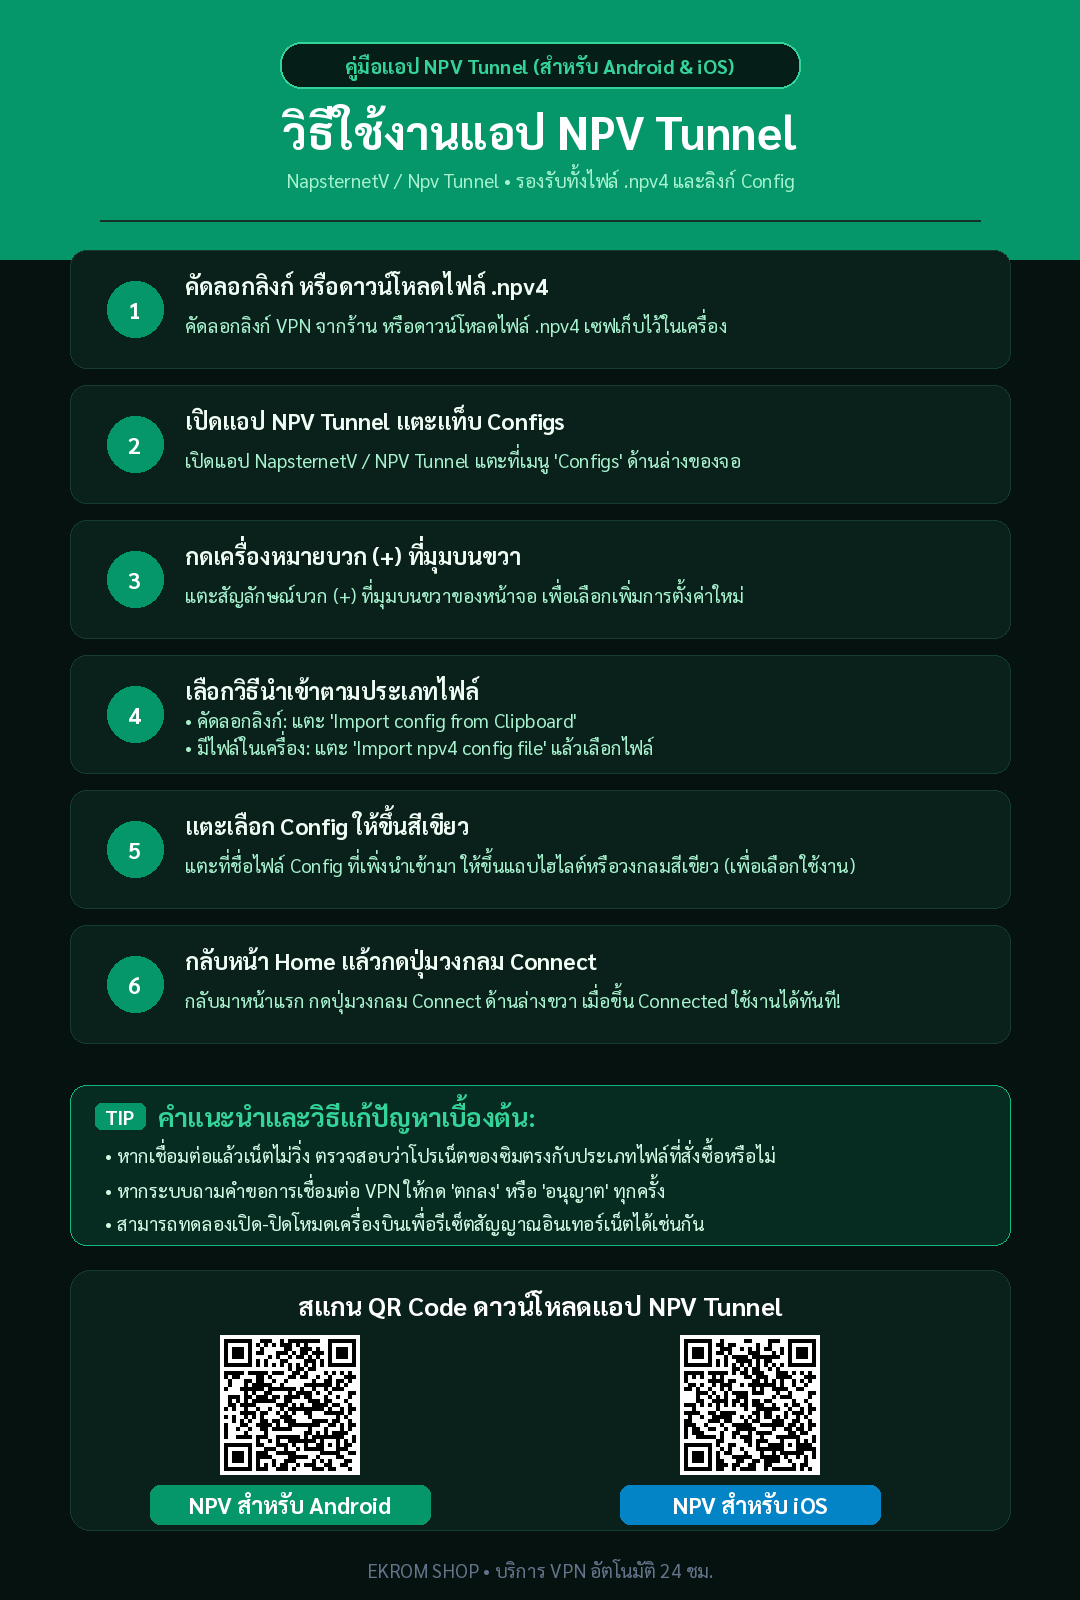
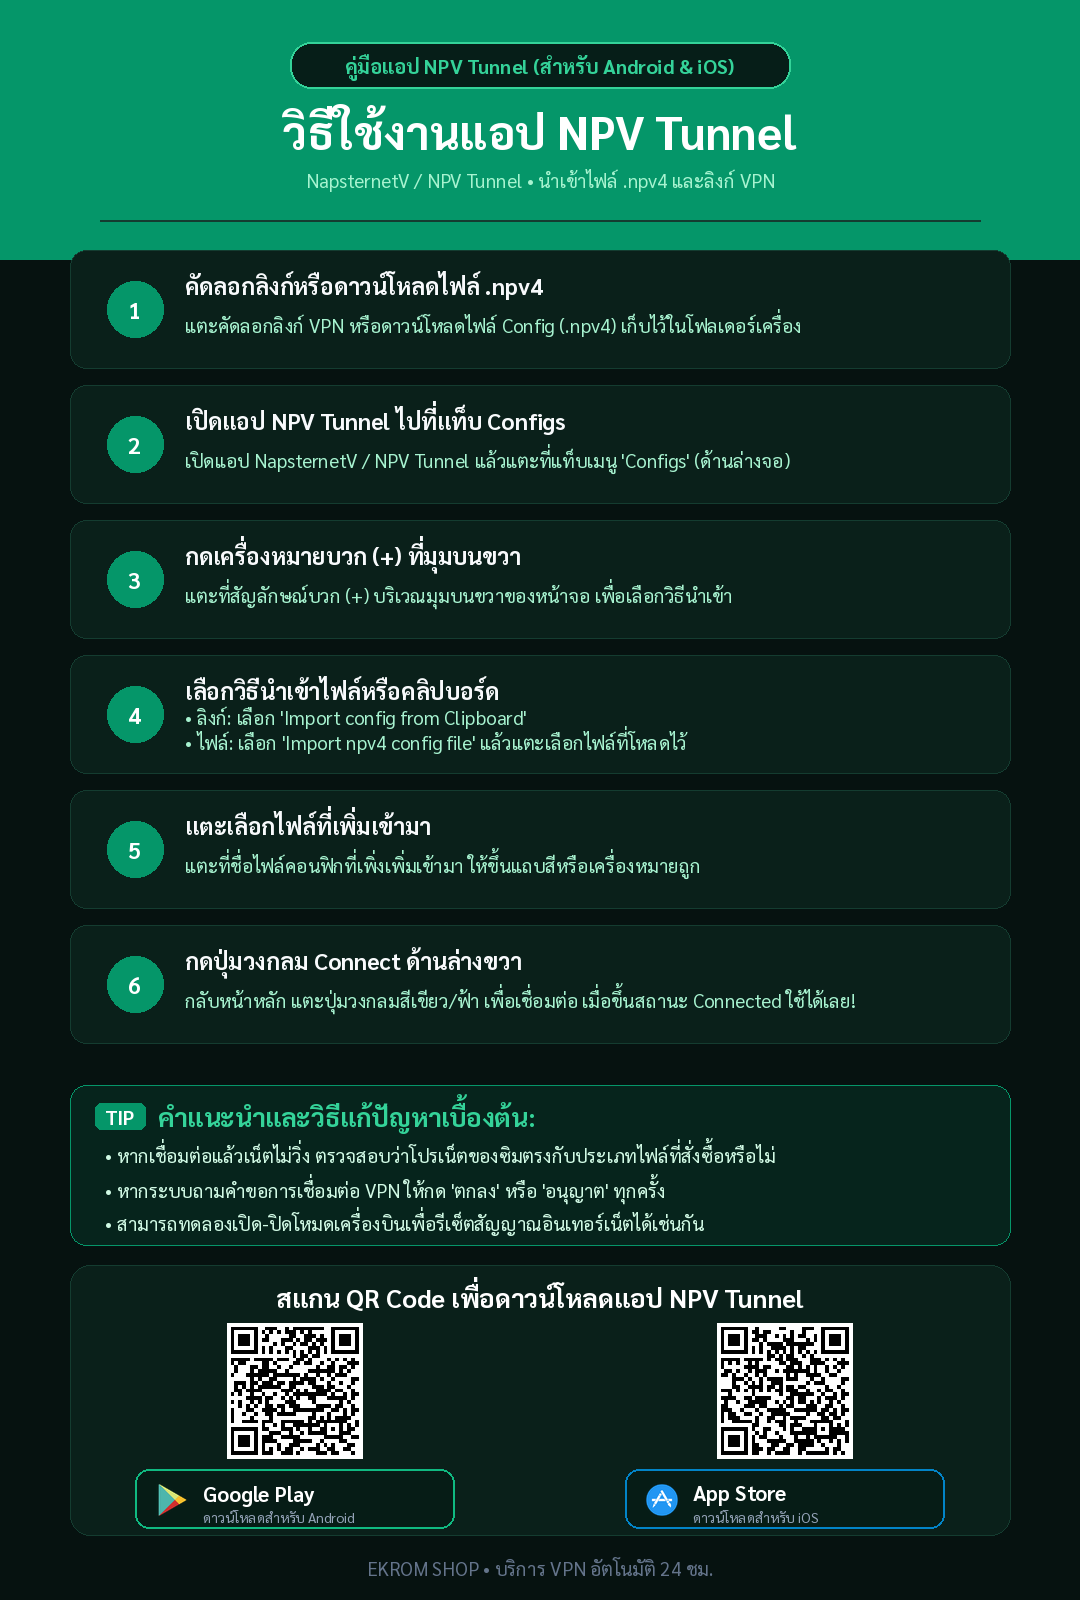
feat(guides): add official Google Play and App Store badges to guide infographics and line bot

diff --git a/api/line_bot.php b/api/line_bot.php
@@ -3473,9 +3473,9 @@ function line_bot_build_help_menu(): array {
                         ],
                         [
                             'type' => 'button',
-                            'action' => ['type' => 'uri', 'label' => '🤖 NPV (Android)', 'uri' => 'https://play.google.com/store/apps/details?id=com.napsternetlabs.napsternetv'],
+                            'action' => ['type' => 'uri', 'label' => '▶ V2BOX (Play Store)', 'uri' => 'https://play.google.com/store/apps/details?id=dev.hexasoftware.v2box'],
                             'style' => 'primary',
-                            'color' => '#059669',
+                            'color' => '#0284c7',
                             'height' => 'sm',
                             'flex' => 1
                         ]
@@ -3489,15 +3489,17 @@ function line_bot_build_help_menu(): array {
                     'contents' => [
                         [
                             'type' => 'button',
-                            'action' => ['type' => 'uri', 'label' => '🤖 V2BOX (Android)', 'uri' => 'https://play.google.com/store/apps/details?id=dev.hexasoftware.v2box'],
-                            'style' => 'secondary',
+                            'action' => ['type' => 'uri', 'label' => '▶ NPV (Play Store)', 'uri' => 'https://play.google.com/store/apps/details?id=com.napsternetlabs.napsternetv'],
+                            'style' => 'primary',
+                            'color' => '#059669',
                             'height' => 'sm',
                             'flex' => 1
                         ],
                         [
                             'type' => 'button',
-                            'action' => ['type' => 'uri', 'label' => '🍏 NPV (iOS)', 'uri' => 'https://apps.apple.com/th/app/npv-tunnel/id1629465476?l=th'],
-                            'style' => 'secondary',
+                            'action' => ['type' => 'uri', 'label' => '🍏 NPV (App Store)', 'uri' => 'https://apps.apple.com/th/app/npv-tunnel/id1629465476?l=th'],
+                            'style' => 'primary',
+                            'color' => '#059669',
                             'height' => 'sm',
                             'flex' => 1
                         ]
@@ -3730,7 +3732,7 @@ function line_bot_build_v2box_guide(): array {
                         ],
                         [
                             'type' => 'button',
-                            'action' => ['type' => 'uri', 'label' => '🤖 Google Play', 'uri' => 'https://play.google.com/store/apps/details?id=dev.hexasoftware.v2box'],
+                            'action' => ['type' => 'uri', 'label' => '▶ Play Store (Android)', 'uri' => 'https://play.google.com/store/apps/details?id=dev.hexasoftware.v2box'],
                             'style' => 'secondary',
                             'height' => 'sm',
                             'flex' => 1
@@ -3953,7 +3955,7 @@ function line_bot_build_npv_guide(): array {
                     'contents' => [
                         [
                             'type' => 'button',
-                            'action' => ['type' => 'uri', 'label' => '🤖 Google Play (Android)', 'uri' => 'https://play.google.com/store/apps/details?id=com.napsternetlabs.napsternetv'],
+                            'action' => ['type' => 'uri', 'label' => '▶ Play Store (Android)', 'uri' => 'https://play.google.com/store/apps/details?id=com.napsternetlabs.napsternetv'],
                             'style' => 'primary',
                             'color' => '#059669',
                             'height' => 'sm',
